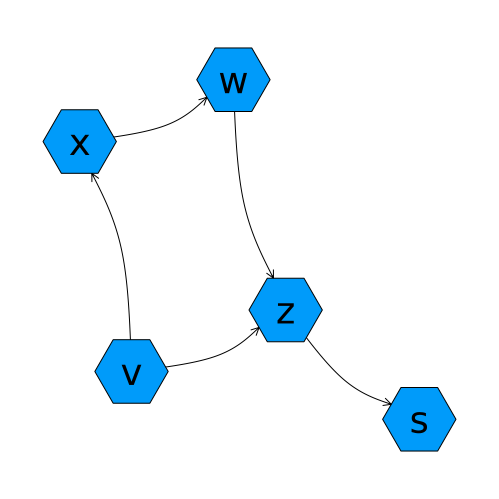
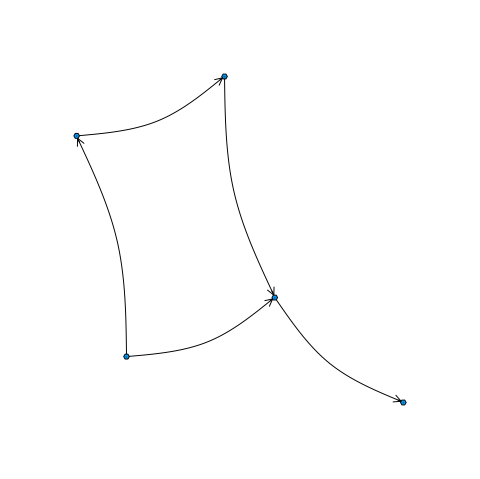
rerendered

diff --git a/docs/blog/posts/causal-recourse/index.html b/docs/blog/posts/causal-recourse/index.html
@@ -358,7 +358,7 @@ x_{F_i} + f_i(\text{pa}_{SCF_i}) - f_i(\text{pa}_{F_i}), &amp; \text{if } i \not
 <span id="cb1-15"><a href="#cb1-15"></a></span>
 <span id="cb1-16"><a href="#cb1-16"></a>est_g, score <span class="op">=</span> <span class="fu">ges</span>(df; penalty<span class="op">=</span><span class="fl">1.0</span>, parallel<span class="op">=</span><span class="cn">true</span>)</span>
 <span id="cb1-17"><a href="#cb1-17"></a></span>
-<span id="cb1-18"><a href="#cb1-18"></a>plt <span class="op">=</span> <span class="fu">graphplot</span>(<span class="fu">pdag2dag!</span>(est_g), names<span class="op">=</span> [<span class="fu">String</span>(k) for k <span class="kw">in</span> <span class="fu">keys</span>(df)], size<span class="op">=</span>(<span class="fl">500</span>,<span class="fl">500</span>), nodesize<span class="op">=</span><span class="fl">0.3</span>)</span>
+<span id="cb1-18"><a href="#cb1-18"></a>plt <span class="op">=</span> <span class="fu">graphplot</span>(<span class="fu">pdag2dag!</span>(est_g), names<span class="op">=</span> [<span class="fu">String</span>(k) for k <span class="kw">in</span> <span class="fu">keys</span>(df)], size<span class="op">=</span>(<span class="fl">500</span>,<span class="fl">500</span>), nodesize<span class="op">=</span><span class="fl">0.1</span>, fontsize<span class="op">=</span><span class="fl">2</span>)</span>
 <span id="cb1-19"><a href="#cb1-19"></a><span class="fu">savefig</span>(plt, <span class="st">"www/intro.png"</span>)</span>
 <span id="cb1-20"><a href="#cb1-20"></a><span class="fu">display</span>(plt)</span></code><button title="Copy to Clipboard" class="code-copy-button"><i class="bi"></i></button></pre></div>
 </details>
@@ -370,53 +370,53 @@ x_{F_i} + f_i(\text{pa}_{SCF_i}) - f_i(\text{pa}_{F_i}), &amp; \text{if } i \not
 <!--?xml version="1.0" encoding="utf-8"?-->
 <svg xmlns="http://www.w3.org/2000/svg" xlink="http://www.w3.org/1999/xlink" width="500" height="500" viewbox="0 0 2000 2000">
 <defs>
-  <clippath id="clip880">
+  <clippath id="clip350">
     <rect x="0" y="0" width="2000" height="2000"></rect>
   </clippath>
 </defs>
-<path clip-path="url(#clip880)" d="M0 2000 L2000 2000 L2000 0 L0 0  Z" fill="#ffffff" fill-rule="evenodd" fill-opacity="1"></path>
+<path clip-path="url(#clip350)" d="M0 2000 L2000 2000 L2000 0 L0 0  Z" fill="#ffffff" fill-rule="evenodd" fill-opacity="1"></path>
 <defs>
-  <clippath id="clip881">
+  <clippath id="clip351">
     <rect x="400" y="199" width="1401" height="1401"></rect>
   </clippath>
 </defs>
-<path clip-path="url(#clip880)" d="M47.2441 1952.76 L1952.76 1952.76 L1952.76 47.2441 L47.2441 47.2441  Z" fill="#ffffff" fill-rule="evenodd" fill-opacity="1"></path>
+<path clip-path="url(#clip350)" d="M47.2441 1952.76 L1952.76 1952.76 L1952.76 47.2441 L47.2441 47.2441  Z" fill="#ffffff" fill-rule="evenodd" fill-opacity="1"></path>
 <defs>
-  <clippath id="clip882">
+  <clippath id="clip352">
     <rect x="47" y="47" width="1907" height="1907"></rect>
   </clippath>
 </defs>
-<polyline clip-path="url(#clip882)" style="stroke:#000000; stroke-linecap:round; stroke-linejoin:round; stroke-width:4; stroke-opacity:1; fill:none" points="319.46,567.322 334.498,565.524 349.522,563.72 364.517,561.902 379.469,560.064 394.364,558.198 409.187,556.298 423.925,554.356 438.562,552.367 453.086,550.323 467.48,548.218 481.732,546.044 495.826,543.794 509.749,541.462 523.486,539.042 537.023,536.525 550.346,533.906 563.44,531.177 576.291,528.332 588.884,525.364 601.206,522.265 613.243,519.029 624.978,515.65 636.4,512.12 647.493,508.432 658.243,504.58 668.651,500.565 678.73,496.391 688.494,492.067 697.959,487.599 707.137,482.995 716.044,478.26 724.694,473.402 733.1,468.427 741.278,463.343 749.242,458.156 757.005,452.873 764.583,447.501 771.989,442.047 779.238,436.518 786.344,430.92 793.321,425.261 800.184,419.546 806.946,413.784 813.623,407.981 820.229,402.143 826.777,396.278 833.283,390.393 839.76,384.494 846.223,378.588 "></polyline>
-<polyline clip-path="url(#clip882)" style="stroke:#000000; stroke-linecap:round; stroke-linejoin:round; stroke-width:4; stroke-opacity:1; fill:none" points="813.958,387.753 846.223,378.588 834.196,409.899 "></polyline>
-<polyline clip-path="url(#clip882)" style="stroke:#000000; stroke-linecap:round; stroke-linejoin:round; stroke-width:4; stroke-opacity:1; fill:none" points="846.223,378.588 839.76,384.494 "></polyline>
-<polyline clip-path="url(#clip882)" style="stroke:#000000; stroke-linecap:round; stroke-linejoin:round; stroke-width:4; stroke-opacity:1; fill:none" points="527.079,1488.89 526.489,1468.08 525.889,1447.28 525.27,1426.51 524.623,1405.78 523.939,1385.11 523.208,1364.51 522.42,1343.99 521.567,1323.57 520.639,1303.26 519.626,1283.07 518.52,1263.03 517.31,1243.14 515.988,1223.41 514.544,1203.87 512.968,1184.53 511.252,1165.39 509.386,1146.47 507.361,1127.8 505.166,1109.37 502.794,1091.21 500.233,1073.33 497.476,1055.74 494.513,1038.46 491.333,1021.5 487.929,1004.88 484.301,988.588 480.456,972.618 476.405,956.955 472.158,941.586 467.722,926.496 463.109,911.67 458.326,897.097 453.384,882.76 448.293,868.647 443.06,854.743 437.696,841.034 432.21,827.507 426.612,814.148 420.91,800.942 415.115,787.875 409.235,774.935 403.28,762.106 397.26,749.374 391.183,736.727 385.059,724.149 378.898,711.627 372.709,699.146 366.501,686.694 360.284,674.256 "></polyline>
-<polyline clip-path="url(#clip882)" style="stroke:#000000; stroke-linecap:round; stroke-linejoin:round; stroke-width:4; stroke-opacity:1; fill:none" points="360.28,707.797 360.284,674.256 387.114,694.384 "></polyline>
-<polyline clip-path="url(#clip882)" style="stroke:#000000; stroke-linecap:round; stroke-linejoin:round; stroke-width:4; stroke-opacity:1; fill:none" points="360.284,674.256 366.501,686.694 "></polyline>
-<polyline clip-path="url(#clip882)" style="stroke:#000000; stroke-linecap:round; stroke-linejoin:round; stroke-width:4; stroke-opacity:1; fill:none" points="527.079,1488.89 542.142,1487.13 557.191,1485.36 572.211,1483.58 587.188,1481.77 602.108,1479.94 616.957,1478.08 631.72,1476.17 646.383,1474.22 660.932,1472.21 675.353,1470.13 689.631,1467.99 703.751,1465.78 717.701,1463.48 731.465,1461.09 745.029,1458.6 758.379,1456.01 771.5,1453.31 784.379,1450.5 797.001,1447.56 809.352,1444.48 821.417,1441.27 833.183,1437.92 844.634,1434.41 855.757,1430.75 866.538,1426.92 876.977,1422.93 887.088,1418.77 896.885,1414.47 906.382,1410.02 915.594,1405.43 924.534,1400.71 933.217,1395.87 941.658,1390.91 949.87,1385.84 957.868,1380.66 965.667,1375.39 973.28,1370.03 980.721,1364.59 988.005,1359.07 995.147,1353.49 1002.16,1347.84 1009.06,1342.13 1015.86,1336.38 1022.57,1330.59 1029.21,1324.76 1035.8,1318.9 1042.34,1313.03 1048.86,1307.13 1055.35,1301.24 "></polyline>
-<polyline clip-path="url(#clip882)" style="stroke:#000000; stroke-linecap:round; stroke-linejoin:round; stroke-width:4; stroke-opacity:1; fill:none" points="1023.06,1310.29 1055.35,1301.24 1043.22,1332.51 "></polyline>
-<polyline clip-path="url(#clip882)" style="stroke:#000000; stroke-linecap:round; stroke-linejoin:round; stroke-width:4; stroke-opacity:1; fill:none" points="1055.35,1301.24 1048.86,1307.13 "></polyline>
-<polyline clip-path="url(#clip882)" style="stroke:#000000; stroke-linecap:round; stroke-linejoin:round; stroke-width:4; stroke-opacity:1; fill:none" points="935.562,319.46 936.19,340.306 936.827,361.138 937.483,381.942 938.167,402.704 938.888,423.41 939.656,444.046 940.48,464.599 941.37,485.053 942.334,505.396 943.383,525.613 944.526,545.69 945.771,565.614 947.129,585.369 948.609,604.943 950.219,624.321 951.97,643.49 953.871,662.435 955.931,681.142 958.159,699.598 960.565,717.788 963.158,735.699 965.948,753.316 968.944,770.626 972.155,787.614 975.591,804.267 979.251,820.586 983.126,836.583 987.206,852.272 991.484,867.668 995.949,882.784 1000.59,897.635 1005.4,912.234 1010.37,926.596 1015.49,940.733 1020.75,954.662 1026.14,968.394 1031.66,981.945 1037.28,995.328 1043.01,1008.56 1048.83,1021.65 1054.74,1034.61 1060.72,1047.46 1066.77,1060.22 1072.87,1072.89 1079.02,1085.49 1085.21,1098.03 1091.42,1110.53 1097.66,1123.01 1103.9,1135.47 "></polyline>
-<polyline clip-path="url(#clip882)" style="stroke:#000000; stroke-linecap:round; stroke-linejoin:round; stroke-width:4; stroke-opacity:1; fill:none" points="1103.87,1101.93 1103.9,1135.47 1077.05,1115.37 "></polyline>
-<polyline clip-path="url(#clip882)" style="stroke:#000000; stroke-linecap:round; stroke-linejoin:round; stroke-width:4; stroke-opacity:1; fill:none" points="1103.9,1135.47 1097.66,1123.01 "></polyline>
-<polyline clip-path="url(#clip882)" style="stroke:#000000; stroke-linecap:round; stroke-linejoin:round; stroke-width:4; stroke-opacity:1; fill:none" points="1144.86,1242.4 1154.12,1255.08 1163.38,1267.75 1172.63,1280.38 1181.88,1292.96 1191.13,1305.48 1200.38,1317.92 1209.61,1330.27 1218.85,1342.5 1228.07,1354.61 1237.29,1366.57 1246.5,1378.38 1255.71,1390.01 1264.9,1401.45 1274.08,1412.68 1283.25,1423.69 1292.41,1434.46 1301.55,1444.98 1310.68,1455.23 1319.79,1465.19 1328.89,1474.85 1337.97,1484.19 1347.04,1493.2 1356.08,1501.85 1365.11,1510.15 1374.12,1518.06 1383.1,1525.59 1392.07,1532.75 1401.02,1539.57 1409.95,1546.05 1418.87,1552.21 1427.77,1558.07 1436.65,1563.65 1445.52,1568.95 1454.38,1574.01 1463.23,1578.82 1472.06,1583.41 1480.88,1587.79 1489.69,1591.98 1498.5,1596 1507.29,1599.86 1516.08,1603.58 1524.86,1607.16 1533.63,1610.64 1542.4,1614.02 1551.17,1617.33 1559.93,1620.56 1568.69,1623.76 1577.45,1626.92 1586.21,1630.06 "></polyline>
-<polyline clip-path="url(#clip882)" style="stroke:#000000; stroke-linecap:round; stroke-linejoin:round; stroke-width:4; stroke-opacity:1; fill:none" points="1563.04,1605.81 1586.21,1630.06 1552.9,1634.04 "></polyline>
-<polyline clip-path="url(#clip882)" style="stroke:#000000; stroke-linecap:round; stroke-linejoin:round; stroke-width:4; stroke-opacity:1; fill:none" points="1586.21,1630.06 1577.45,1626.92 "></polyline>
-<path clip-path="url(#clip882)" d="M442.937 567.322 L381.199 460.387 L257.721 460.387 L195.983 567.322 L257.721 674.256 L381.199 674.256 L442.937 567.322 L442.937 567.322  Z" fill="#009af9" fill-rule="evenodd" fill-opacity="1"></path>
-<polyline clip-path="url(#clip882)" style="stroke:#000000; stroke-linecap:round; stroke-linejoin:round; stroke-width:4; stroke-opacity:1; fill:none" points="442.937,567.322 381.199,460.387 257.721,460.387 195.983,567.322 257.721,674.256 381.199,674.256 442.937,567.322 "></polyline>
-<path clip-path="url(#clip882)" d="M650.557 1488.89 L588.818 1381.96 L465.341 1381.96 L403.602 1488.89 L465.341 1595.82 L588.818 1595.82 L650.557 1488.89 L650.557 1488.89  Z" fill="#009af9" fill-rule="evenodd" fill-opacity="1"></path>
-<polyline clip-path="url(#clip882)" style="stroke:#000000; stroke-linecap:round; stroke-linejoin:round; stroke-width:4; stroke-opacity:1; fill:none" points="650.557,1488.89 588.818,1381.96 465.341,1381.96 403.602,1488.89 465.341,1595.82 588.818,1595.82 650.557,1488.89 "></polyline>
-<path clip-path="url(#clip882)" d="M1059.04 319.46 L997.301 212.526 L873.824 212.526 L812.085 319.46 L873.824 426.394 L997.301 426.394 L1059.04 319.46 L1059.04 319.46  Z" fill="#009af9" fill-rule="evenodd" fill-opacity="1"></path>
-<polyline clip-path="url(#clip882)" style="stroke:#000000; stroke-linecap:round; stroke-linejoin:round; stroke-width:4; stroke-opacity:1; fill:none" points="1059.04,319.46 997.301,212.526 873.824,212.526 812.085,319.46 873.824,426.394 997.301,426.394 1059.04,319.46 "></polyline>
-<path clip-path="url(#clip882)" d="M1268.34 1242.4 L1206.6 1135.47 L1083.13 1135.47 L1021.39 1242.4 L1083.13 1349.34 L1206.6 1349.34 L1268.34 1242.4 L1268.34 1242.4  Z" fill="#009af9" fill-rule="evenodd" fill-opacity="1"></path>
-<polyline clip-path="url(#clip882)" style="stroke:#000000; stroke-linecap:round; stroke-linejoin:round; stroke-width:4; stroke-opacity:1; fill:none" points="1268.34,1242.4 1206.6,1135.47 1083.13,1135.47 1021.39,1242.4 1083.13,1349.34 1206.6,1349.34 1268.34,1242.4 "></polyline>
-<path clip-path="url(#clip882)" d="M1804.02 1680.54 L1742.28 1573.61 L1618.8 1573.61 L1557.06 1680.54 L1618.8 1787.47 L1742.28 1787.47 L1804.02 1680.54 L1804.02 1680.54  Z" fill="#009af9" fill-rule="evenodd" fill-opacity="1"></path>
-<polyline clip-path="url(#clip882)" style="stroke:#000000; stroke-linecap:round; stroke-linejoin:round; stroke-width:4; stroke-opacity:1; fill:none" points="1804.02,1680.54 1742.28,1573.61 1618.8,1573.61 1557.06,1680.54 1618.8,1787.47 1742.28,1787.47 1804.02,1680.54 "></polyline>
-<circle clip-path="url(#clip882)" style="fill:#009af9; stroke:none; fill-opacity:0" cx="319.46" cy="567.322" r="2"></circle>
-<circle clip-path="url(#clip882)" style="fill:#009af9; stroke:none; fill-opacity:0" cx="527.079" cy="1488.89" r="2"></circle>
-<circle clip-path="url(#clip882)" style="fill:#009af9; stroke:none; fill-opacity:0" cx="935.562" cy="319.46" r="2"></circle>
-<circle clip-path="url(#clip882)" style="fill:#009af9; stroke:none; fill-opacity:0" cx="1144.86" cy="1242.4" r="2"></circle>
-<circle clip-path="url(#clip882)" style="fill:#009af9; stroke:none; fill-opacity:0" cx="1680.54" cy="1680.54" r="2"></circle>
-<path clip-path="url(#clip880)" d="M330.033 559.757 L321.83 570.795 L330.458 582.442 L326.063 582.442 L319.46 573.53 L312.857 582.442 L308.462 582.442 L317.273 570.572 L309.211 559.757 L313.607 559.757 L319.622 567.838 L325.638 559.757 L330.033 559.757 Z" fill="#000000" fill-rule="nonzero" fill-opacity="1"></path><path clip-path="url(#clip880)" d="M516.041 1481.32 L519.99 1481.32 L527.079 1500.36 L534.168 1481.32 L538.118 1481.32 L529.611 1504.01 L524.548 1504.01 L516.041 1481.32 Z" fill="#000000" fill-rule="nonzero" fill-opacity="1"></path><path clip-path="url(#clip880)" d="M920.341 311.895 L924.068 311.895 L928.726 329.597 L933.365 311.895 L937.76 311.895 L942.418 329.597 L947.057 311.895 L950.784 311.895 L944.849 334.58 L940.454 334.58 L935.572 315.986 L930.671 334.58 L926.276 334.58 L920.341 311.895 Z" fill="#000000" fill-rule="nonzero" fill-opacity="1"></path><path clip-path="url(#clip880)" d="M1136.27 1234.84 L1153.97 1234.84 L1153.97 1238.24 L1139.95 1254.55 L1153.97 1254.55 L1153.97 1257.52 L1135.76 1257.52 L1135.76 1254.12 L1149.78 1237.82 L1136.27 1237.82 L1136.27 1234.84 Z" fill="#000000" fill-rule="nonzero" fill-opacity="1"></path><path clip-path="url(#clip880)" d="M1687.99 1673.64 L1687.99 1677.17 Q1686.41 1676.36 1684.71 1675.95 Q1683.01 1675.55 1681.19 1675.55 Q1678.41 1675.55 1677.02 1676.4 Q1675.64 1677.25 1675.64 1678.95 Q1675.64 1680.25 1676.63 1681 Q1677.62 1681.72 1680.62 1682.39 L1681.9 1682.68 Q1685.87 1683.53 1687.53 1685.09 Q1689.21 1686.63 1689.21 1689.4 Q1689.21 1692.56 1686.7 1694.4 Q1684.21 1696.25 1679.83 1696.25 Q1678.01 1696.25 1676.02 1695.88 Q1674.06 1695.54 1671.87 1694.83 L1671.87 1690.98 Q1673.94 1692.05 1675.94 1692.6 Q1677.95 1693.13 1679.91 1693.13 Q1682.55 1693.13 1683.96 1692.24 Q1685.38 1691.33 1685.38 1689.68 Q1685.38 1688.17 1684.35 1687.36 Q1683.34 1686.55 1679.87 1685.8 L1678.58 1685.49 Q1675.11 1684.76 1673.57 1683.26 Q1672.03 1681.75 1672.03 1679.11 Q1672.03 1675.91 1674.3 1674.17 Q1676.57 1672.43 1680.74 1672.43 Q1682.81 1672.43 1684.63 1672.73 Q1686.45 1673.04 1687.99 1673.64 Z" fill="#000000" fill-rule="nonzero" fill-opacity="1"></path></svg>
+<polyline clip-path="url(#clip352)" style="stroke:#000000; stroke-linecap:round; stroke-linejoin:round; stroke-width:4; stroke-opacity:1; fill:none" points="319.46,567.322 333.675,566.069 347.883,564.804 362.079,563.515 376.257,562.189 390.411,560.813 404.535,559.376 418.622,557.866 432.667,556.269 446.664,554.573 460.606,552.767 474.488,550.838 488.303,548.773 502.046,546.561 515.71,544.189 529.289,541.644 542.777,538.915 556.169,535.989 569.458,532.854 582.638,529.498 595.703,525.907 608.647,522.071 621.464,517.976 634.148,513.61 646.693,508.961 659.093,504.018 671.348,498.78 683.464,493.258 695.446,487.466 707.302,481.416 719.037,475.119 730.656,468.589 742.167,461.837 753.575,454.876 764.887,447.718 776.107,440.376 787.243,432.861 798.3,425.186 809.285,417.364 820.203,409.406 831.06,401.325 841.863,393.134 852.618,384.844 863.33,376.468 874.006,368.018 884.652,359.506 895.274,350.946 905.877,342.348 916.468,333.726 927.054,325.091 "></polyline>
+<polyline clip-path="url(#clip352)" style="stroke:#000000; stroke-linecap:round; stroke-linejoin:round; stroke-width:4; stroke-opacity:1; fill:none" points="894.326,332.431 927.054,325.091 913.288,355.677 "></polyline>
+<polyline clip-path="url(#clip352)" style="stroke:#000000; stroke-linecap:round; stroke-linejoin:round; stroke-width:4; stroke-opacity:1; fill:none" points="927.054,325.091 916.468,333.726 "></polyline>
+<polyline clip-path="url(#clip352)" style="stroke:#000000; stroke-linecap:round; stroke-linejoin:round; stroke-width:4; stroke-opacity:1; fill:none" points="527.079,1488.89 526.865,1469.06 526.638,1449.24 526.384,1429.43 526.091,1409.62 525.745,1389.84 525.333,1370.07 524.843,1350.33 524.261,1330.62 523.573,1310.94 522.767,1291.3 521.83,1271.7 520.748,1252.14 519.508,1232.63 518.097,1213.18 516.503,1193.78 514.711,1174.45 512.709,1155.18 510.483,1135.98 508.02,1116.85 505.308,1097.8 502.333,1078.83 499.082,1059.95 495.541,1041.16 491.699,1022.46 487.541,1003.86 483.068,985.36 478.293,966.952 473.229,948.634 467.888,930.403 462.285,912.253 456.432,894.18 450.342,876.182 444.029,858.253 437.505,840.389 430.784,822.587 423.879,804.842 416.803,787.15 409.57,769.507 402.191,751.909 394.682,734.352 387.054,716.832 379.321,699.345 371.495,681.886 363.591,664.452 355.622,647.038 347.599,629.641 339.537,612.256 331.449,594.879 323.348,577.506 "></polyline>
+<polyline clip-path="url(#clip352)" style="stroke:#000000; stroke-linecap:round; stroke-linejoin:round; stroke-width:4; stroke-opacity:1; fill:none" points="322.432,611.034 323.348,577.506 349.621,598.356 "></polyline>
+<polyline clip-path="url(#clip352)" style="stroke:#000000; stroke-linecap:round; stroke-linejoin:round; stroke-width:4; stroke-opacity:1; fill:none" points="323.348,577.506 331.449,594.879 "></polyline>
+<polyline clip-path="url(#clip352)" style="stroke:#000000; stroke-linecap:round; stroke-linejoin:round; stroke-width:4; stroke-opacity:1; fill:none" points="527.079,1488.89 541.317,1487.67 555.549,1486.44 569.769,1485.18 583.971,1483.89 598.148,1482.55 612.296,1481.14 626.408,1479.66 640.477,1478.1 654.499,1476.43 668.466,1474.66 682.373,1472.76 696.214,1470.73 709.983,1468.55 723.673,1466.21 737.28,1463.69 750.796,1461 764.216,1458.1 777.533,1455 790.743,1451.67 803.838,1448.11 816.813,1444.3 829.662,1440.23 842.378,1435.9 854.956,1431.28 867.39,1426.36 879.68,1421.15 891.831,1415.65 903.85,1409.89 915.743,1403.86 927.516,1397.59 939.174,1391.09 950.724,1384.36 962.172,1377.42 973.523,1370.29 984.785,1362.97 995.962,1355.48 1007.06,1347.83 1018.09,1340.03 1029.05,1332.1 1039.95,1324.04 1050.8,1315.87 1061.59,1307.6 1072.35,1299.25 1083.07,1290.82 1093.76,1282.33 1104.43,1273.8 1115.07,1265.22 1125.71,1256.62 1136.34,1248.01 "></polyline>
+<polyline clip-path="url(#clip352)" style="stroke:#000000; stroke-linecap:round; stroke-linejoin:round; stroke-width:4; stroke-opacity:1; fill:none" points="1103.59,1255.24 1136.34,1248.01 1122.47,1278.55 "></polyline>
+<polyline clip-path="url(#clip352)" style="stroke:#000000; stroke-linecap:round; stroke-linejoin:round; stroke-width:4; stroke-opacity:1; fill:none" points="1136.34,1248.01 1125.71,1256.62 "></polyline>
+<polyline clip-path="url(#clip352)" style="stroke:#000000; stroke-linecap:round; stroke-linejoin:round; stroke-width:4; stroke-opacity:1; fill:none" points="935.562,319.46 935.812,339.32 936.076,359.177 936.365,379.025 936.694,398.86 937.076,418.679 937.523,438.478 938.049,458.252 938.667,477.997 939.39,497.71 940.231,517.385 941.204,537.02 942.322,556.609 943.597,576.148 945.043,595.635 946.673,615.064 948.5,634.431 950.537,653.732 952.797,672.964 955.295,692.122 958.042,711.201 961.051,730.199 964.337,749.11 967.912,767.931 971.789,786.657 975.981,805.284 980.487,823.814 985.296,842.249 990.394,860.593 995.768,878.851 1001.41,897.027 1007.29,915.125 1013.41,933.149 1019.76,951.103 1026.32,968.991 1033.07,986.818 1040.01,1004.59 1047.12,1022.3 1054.38,1039.97 1061.8,1057.59 1069.34,1075.17 1077,1092.71 1084.76,1110.22 1092.62,1127.71 1100.56,1145.16 1108.56,1162.6 1116.61,1180.02 1124.71,1197.43 1132.83,1214.82 1140.96,1232.22 "></polyline>
+<polyline clip-path="url(#clip352)" style="stroke:#000000; stroke-linecap:round; stroke-linejoin:round; stroke-width:4; stroke-opacity:1; fill:none" points="1141.84,1198.69 1140.96,1232.22 1114.67,1211.4 "></polyline>
+<polyline clip-path="url(#clip352)" style="stroke:#000000; stroke-linecap:round; stroke-linejoin:round; stroke-width:4; stroke-opacity:1; fill:none" points="1140.96,1232.22 1132.83,1214.82 "></polyline>
+<polyline clip-path="url(#clip352)" style="stroke:#000000; stroke-linecap:round; stroke-linejoin:round; stroke-width:4; stroke-opacity:1; fill:none" points="1144.86,1242.4 1153.25,1254.62 1161.65,1266.82 1170.06,1279 1178.49,1291.15 1186.96,1303.25 1195.46,1315.29 1204.02,1327.27 1212.62,1339.17 1221.29,1350.98 1230.04,1362.69 1238.86,1374.29 1247.76,1385.76 1256.76,1397.1 1265.87,1408.29 1275.08,1419.32 1284.41,1430.19 1293.87,1440.87 1303.46,1451.37 1313.2,1461.66 1323.08,1471.74 1333.12,1481.59 1343.33,1491.21 1353.71,1500.58 1364.27,1509.69 1375.01,1518.54 1385.95,1527.11 1397.07,1535.43 1408.36,1543.5 1419.82,1551.33 1431.43,1558.94 1443.2,1566.33 1455.1,1573.52 1467.14,1580.52 1479.31,1587.35 1491.59,1594 1503.99,1600.49 1516.48,1606.84 1529.07,1613.06 1541.75,1619.15 1554.51,1625.13 1567.33,1631 1580.22,1636.79 1593.17,1642.5 1606.16,1648.14 1619.19,1653.73 1632.26,1659.27 1645.34,1664.78 1658.45,1670.26 1671.56,1675.73 "></polyline>
+<polyline clip-path="url(#clip352)" style="stroke:#000000; stroke-linecap:round; stroke-linejoin:round; stroke-width:4; stroke-opacity:1; fill:none" points="1649.65,1650.33 1671.56,1675.73 1638.09,1678.02 "></polyline>
+<polyline clip-path="url(#clip352)" style="stroke:#000000; stroke-linecap:round; stroke-linejoin:round; stroke-width:4; stroke-opacity:1; fill:none" points="1671.56,1675.73 1658.45,1670.26 "></polyline>
+<path clip-path="url(#clip352)" d="M331.22 567.322 L325.34 557.137 L313.58 557.137 L307.7 567.322 L313.58 577.506 L325.34 577.506 L331.22 567.322 L331.22 567.322  Z" fill="#009af9" fill-rule="evenodd" fill-opacity="1"></path>
+<polyline clip-path="url(#clip352)" style="stroke:#000000; stroke-linecap:round; stroke-linejoin:round; stroke-width:4; stroke-opacity:1; fill:none" points="331.22,567.322 325.34,557.137 313.58,557.137 307.7,567.322 313.58,577.506 325.34,577.506 331.22,567.322 "></polyline>
+<path clip-path="url(#clip352)" d="M538.839 1488.89 L532.959 1478.71 L521.2 1478.71 L515.32 1488.89 L521.2 1499.07 L532.959 1499.07 L538.839 1488.89 L538.839 1488.89  Z" fill="#009af9" fill-rule="evenodd" fill-opacity="1"></path>
+<polyline clip-path="url(#clip352)" style="stroke:#000000; stroke-linecap:round; stroke-linejoin:round; stroke-width:4; stroke-opacity:1; fill:none" points="538.839,1488.89 532.959,1478.71 521.2,1478.71 515.32,1488.89 521.2,1499.07 532.959,1499.07 538.839,1488.89 "></polyline>
+<path clip-path="url(#clip352)" d="M947.322 319.46 L941.442 309.276 L929.682 309.276 L923.803 319.46 L929.682 329.644 L941.442 329.644 L947.322 319.46 L947.322 319.46  Z" fill="#009af9" fill-rule="evenodd" fill-opacity="1"></path>
+<polyline clip-path="url(#clip352)" style="stroke:#000000; stroke-linecap:round; stroke-linejoin:round; stroke-width:4; stroke-opacity:1; fill:none" points="947.322,319.46 941.442,309.276 929.682,309.276 923.803,319.46 929.682,329.644 941.442,329.644 947.322,319.46 "></polyline>
+<path clip-path="url(#clip352)" d="M1156.62 1242.4 L1150.74 1232.22 L1138.98 1232.22 L1133.1 1242.4 L1138.98 1252.59 L1150.74 1252.59 L1156.62 1242.4 L1156.62 1242.4  Z" fill="#009af9" fill-rule="evenodd" fill-opacity="1"></path>
+<polyline clip-path="url(#clip352)" style="stroke:#000000; stroke-linecap:round; stroke-linejoin:round; stroke-width:4; stroke-opacity:1; fill:none" points="1156.62,1242.4 1150.74,1232.22 1138.98,1232.22 1133.1,1242.4 1138.98,1252.59 1150.74,1252.59 1156.62,1242.4 "></polyline>
+<path clip-path="url(#clip352)" d="M1692.3 1680.54 L1686.42 1670.36 L1674.66 1670.36 L1668.78 1680.54 L1674.66 1690.72 L1686.42 1690.72 L1692.3 1680.54 L1692.3 1680.54  Z" fill="#009af9" fill-rule="evenodd" fill-opacity="1"></path>
+<polyline clip-path="url(#clip352)" style="stroke:#000000; stroke-linecap:round; stroke-linejoin:round; stroke-width:4; stroke-opacity:1; fill:none" points="1692.3,1680.54 1686.42,1670.36 1674.66,1670.36 1668.78,1680.54 1674.66,1690.72 1686.42,1690.72 1692.3,1680.54 "></polyline>
+<circle clip-path="url(#clip352)" style="fill:#009af9; stroke:none; fill-opacity:0" cx="319.46" cy="567.322" r="2"></circle>
+<circle clip-path="url(#clip352)" style="fill:#009af9; stroke:none; fill-opacity:0" cx="527.079" cy="1488.89" r="2"></circle>
+<circle clip-path="url(#clip352)" style="fill:#009af9; stroke:none; fill-opacity:0" cx="935.562" cy="319.46" r="2"></circle>
+<circle clip-path="url(#clip352)" style="fill:#009af9; stroke:none; fill-opacity:0" cx="1144.86" cy="1242.4" r="2"></circle>
+<circle clip-path="url(#clip352)" style="fill:#009af9; stroke:none; fill-opacity:0" cx="1680.54" cy="1680.54" r="2"></circle>
+<path clip-path="url(#clip350)" d="M322.481 565.16 L320.137 568.314 L322.602 571.642 L321.347 571.642 L319.46 569.095 L317.574 571.642 L316.318 571.642 L318.835 568.25 L316.532 565.16 L317.788 565.16 L319.506 567.469 L321.225 565.16 L322.481 565.16 Z" fill="#000000" fill-rule="nonzero" fill-opacity="1"></path><path clip-path="url(#clip350)" d="M523.925 1486.73 L525.054 1486.73 L527.079 1492.17 L529.105 1486.73 L530.233 1486.73 L527.803 1493.21 L526.356 1493.21 L523.925 1486.73 Z" fill="#000000" fill-rule="nonzero" fill-opacity="1"></path><path clip-path="url(#clip350)" d="M931.213 317.299 L932.278 317.299 L933.609 322.356 L934.934 317.299 L936.19 317.299 L937.521 322.356 L938.846 317.299 L939.911 317.299 L938.216 323.78 L936.96 323.78 L935.565 318.468 L934.165 323.78 L932.909 323.78 L931.213 317.299 Z" fill="#000000" fill-rule="nonzero" fill-opacity="1"></path><path clip-path="url(#clip350)" d="M1142.41 1240.24 L1147.47 1240.24 L1147.47 1241.22 L1143.46 1245.87 L1147.47 1245.87 L1147.47 1246.72 L1142.26 1246.72 L1142.26 1245.75 L1146.27 1241.09 L1142.41 1241.09 L1142.41 1240.24 Z" fill="#000000" fill-rule="nonzero" fill-opacity="1"></path><path clip-path="url(#clip350)" d="M1682.67 1678.57 L1682.67 1679.58 Q1682.22 1679.34 1681.73 1679.23 Q1681.25 1679.11 1680.73 1679.11 Q1679.93 1679.11 1679.53 1679.36 Q1679.14 1679.6 1679.14 1680.09 Q1679.14 1680.46 1679.42 1680.67 Q1679.71 1680.88 1680.56 1681.07 L1680.93 1681.15 Q1682.06 1681.39 1682.54 1681.84 Q1683.02 1682.28 1683.02 1683.07 Q1683.02 1683.97 1682.3 1684.5 Q1681.59 1685.03 1680.34 1685.03 Q1679.82 1685.03 1679.25 1684.92 Q1678.69 1684.83 1678.06 1684.62 L1678.06 1683.52 Q1678.65 1683.83 1679.23 1683.99 Q1679.8 1684.14 1680.36 1684.14 Q1681.11 1684.14 1681.52 1683.88 Q1681.92 1683.62 1681.92 1683.15 Q1681.92 1682.72 1681.63 1682.49 Q1681.34 1682.26 1680.35 1682.04 L1679.98 1681.95 Q1678.99 1681.75 1678.55 1681.32 Q1678.11 1680.88 1678.11 1680.13 Q1678.11 1679.22 1678.76 1678.72 Q1679.41 1678.22 1680.6 1678.22 Q1681.19 1678.22 1681.71 1678.31 Q1682.23 1678.4 1682.67 1678.57 Z" fill="#000000" fill-rule="nonzero" fill-opacity="1"></path></svg>
 </div>
 </div>
 <p>So, our goal was given the DAG provided by the <code>ges</code> method in the causal discovery <span class="citation" data-cites="chickering2003optimal">(<a href="#ref-chickering2003optimal" role="doc-biblioref">Chickering 2003</a>)</span>, generate equations that rules each of these causal relations, represented in the DAG as directed edges. The SCM is the union of the DAG and these causal equations, that is, the SCM is a tuple <span class="math inline">\((G, \mathbf{f})\)</span>, where <span class="math inline">\(G\)</span> is the DAG and <span class="math inline">\(\mathbf{f}\)</span> is the set of functions that generates the value of each variable given its parents.</p>
@@ -1124,7 +1124,7 @@ window.document.addEventListener("DOMContentLoaded", function (event) {
 <span id="cb4-116"><a href="#cb4-116"></a></span>
 <span id="cb4-117"><a href="#cb4-117"></a><span class="in">est_g, score = ges(df; penalty=1.0, parallel=true)</span></span>
 <span id="cb4-118"><a href="#cb4-118"></a></span>
-<span id="cb4-119"><a href="#cb4-119"></a><span class="in">plt = graphplot(pdag2dag!(est_g), names= [String(k) for k in keys(df)], size=(500,500), nodesize=0.3)</span></span>
+<span id="cb4-119"><a href="#cb4-119"></a><span class="in">plt = graphplot(pdag2dag!(est_g), names= [String(k) for k in keys(df)], size=(500,500), nodesize=0.1, fontsize=2)</span></span>
 <span id="cb4-120"><a href="#cb4-120"></a><span class="in">savefig(plt, "www/intro.png")</span></span>
 <span id="cb4-121"><a href="#cb4-121"></a><span class="in">display(plt)</span></span>
 <span id="cb4-122"><a href="#cb4-122"></a><span class="in">```</span></span>

diff --git a/docs/blog/index.html b/docs/blog/index.html
@@ -227,7 +227,7 @@ Interested in contributing?
 
 <div class="quarto-listing quarto-listing-container-default" id="listing-listing">
 <div class="list quarto-listing-default">
-<div class="quarto-post image-left" data-index="0" data-categories="counterfactuals,explainable AI,causality,Julia" data-listing-date-sort="1726524000000" data-listing-file-modified-sort="1726556874512" data-listing-date-modified-sort="NaN" data-listing-reading-time-sort="8" data-listing-word-count-sort="1488">
+<div class="quarto-post image-left" data-index="0" data-categories="counterfactuals,explainable AI,causality,Julia" data-listing-date-sort="1726524000000" data-listing-file-modified-sort="1726573911700" data-listing-date-modified-sort="NaN" data-listing-reading-time-sort="8" data-listing-word-count-sort="1489">
 <div class="thumbnail">
 <p><a href="../blog/posts/causal-recourse/index.html" class="no-external"></a></p><a href="../blog/posts/causal-recourse/index.html" class="no-external">
 <p><img loading="lazy" src="../blog/posts/causal-recourse/www/intro.png" class="thumbnail-image"></p>
@@ -256,7 +256,7 @@ Patrick Altmeyer, Jorge Luiz Franco
 8 min
 </div>
 <div class="metadata-value listing-file-modified">
-9/17/24, 9:07:54 AM
+9/17/24, 1:51:51 PM
 </div>
 </a>
 </div>
